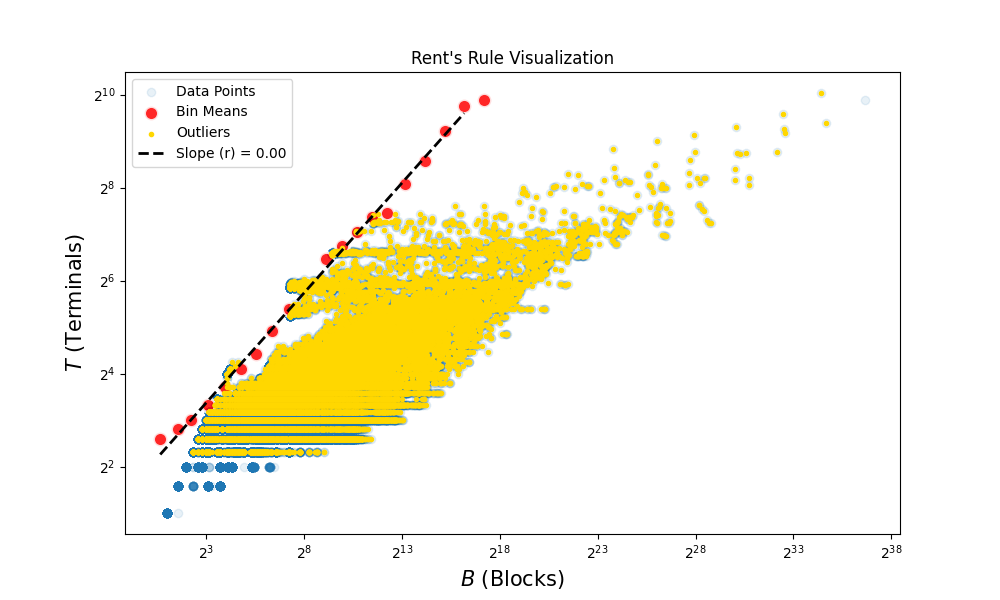
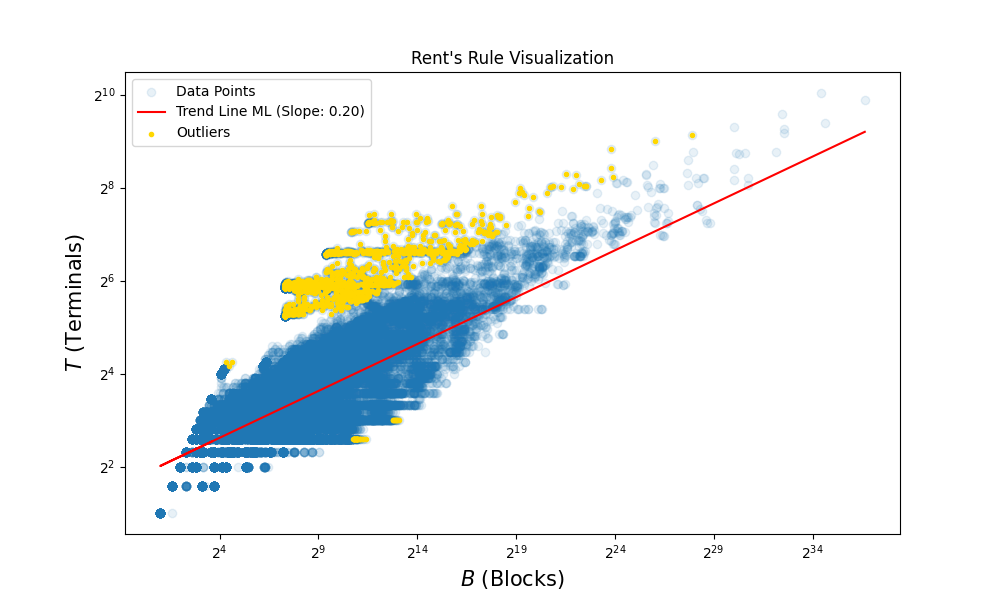
wierd slope

diff --git a/post_process/rent_norm/rent_norm2viz.py b/post_process/rent_norm/rent_norm2viz.py
@@ -15,7 +15,8 @@ import sys
 # from sklearn.linear_model import LinearRegression, RANSACRegressor
 from statsmodels.nonparametric.kernel_regression import KernelReg
 from sklearn import datasets, linear_model, kernel_ridge
-from post-process.merge2csv import merge_2_csv
+from post_process.merge2csv import merge_to_csv
+
 
 def rent_norm(t_dic, r):
     weighted_blocks = []
@@ -50,18 +51,27 @@ def calculate_bin_means(rent_data_flat, blocks, n_bins):
 
 def trend_line_ml(data):
     X = data[:, 0].reshape(-1, 1)
+    # X = data[:, 0]
     y = data[:, 1]
 
-    ransac = linear_model.RANSACRegressor(max_trials=30, min_samples=1000, residual_threshold=1.24, random_state=42)
-    huber = linear_model.HuberRegressor(max_iter=1000, alpha=0.1, epsilon=4)
 
-    model = huber
+    # huber = linear_model.HuberRegressor(max_iter=1000, alpha=0.1, epsilon=4)
+    # huber = linear_model.HuberRegressor(max_iter=1000, alpha=0.1, epsilon=1.0)
+    # model = huber
+    # model.fit(X, y)
+    # # inlier_mask = model.inlier_mask_
+    # # outlier_mask = np.logical_not(inlier_mask)
+    # outlier_mask = model.outliers_
+    #
+    # coef = model.coef_[0]
+
+    ransac = linear_model.RANSACRegressor(max_trials=30, min_samples=1000, residual_threshold=1.0, random_state=42)
+    model = ransac
     model.fit(X, y)
-    # inlier_mask = model.inlier_mask_
-    # outlier_mask = np.logical_not(inlier_mask)
-    outlier_mask = model.outliers_
+    inlier_mask = ransac.inlier_mask_
+    outlier_mask = np.logical_not(inlier_mask)
     line_y_ransac = model.predict(X)
-    coef = model.coef_[0]
+    coef = model.estimator_.coef_[0]
     return line_y_ransac, coef, outlier_mask
 
 
@@ -107,30 +117,39 @@ def visualize_rent(rent_path, output_filename='Rents_rule_real.png', output_figu
 
     # use this slope for normalizing
     norm_blocks = rent_norm(t_dic, slope)
-    prev_slope = slope
-    for i in range(10):
-        bin_means = calculate_bin_means(rent_data_flat[:,0:2], norm_blocks, n_bins)
-        log_bin_means = np.log(bin_means)
-        y_predict, slope, _ = trend_line_ml(np.stack((norm_blocks, pins), axis=1))
-        if abs(prev_slope - slope) <= 0.0001:
-            print(f"{i}: slope {slope} : prev_slope {prev_slope}")
-            break
-
-        prev_slope = slope
-        norm_blocks = rent_norm(t_dic, slope)
+    y_predict, slope, outlier_mask = trend_line_ml(np.stack((np.log(norm_blocks.astype(float)), np.log(pins.astype(float))), axis=1))
+    # prev_slope = slope
+    # for i in range(10):
+    #     bin_means = calculate_bin_means(rent_data_flat[:,0:2], norm_blocks, n_bins)
+    #     # log_bin_means = np.log(bin_means)
+    #     y_predict, slope, outlier_mask = trend_line_ml(np.stack((norm_blocks, pins), axis=1))
+    #     if abs(prev_slope - slope) <= 0.0001:
+    #         print(f"{i}: slope {slope} : prev_slope {prev_slope}")
+    #         break
+    #
+    #     prev_slope = slope
+    #     norm_blocks = rent_norm(t_dic, slope)
 
 
     plt.figure(figsize=(10, 6))
+    ## data dots
     plt.scatter(norm_blocks, pins, alpha=0.1, label='Data Points')
-    plt.scatter(bin_means[:, 0], bin_means[:, 1], s=100, color='red', alpha=0.85, edgecolors='w', linewidths=2,
-                marker='o', label='Bin Means')
-    plt.plot(norm_blocks, y_predict, color='red', label=f'Trend Line ML (Slope: {slope:.2f})')
+
+    ## linear-regression line
+    plt.plot(norm_blocks, np.exp(y_predict), color='red', label=f'Trend Line ML (Slope: {slope:.2f})')
+    plt.scatter(norm_blocks[outlier_mask], pins[outlier_mask], color="gold", marker=".", label="Outliers")
     plt.xscale("log", base=2)
     plt.yscale("log", base=2)
     plt.xlabel('$B$ (Blocks)', size=15)
     plt.ylabel('$T$ (Terminals)', size=15)
-    plt.plot(np.exp(line[:, 0]), np.exp(line[:, 1]), color='black', linewidth=2, linestyle='--',
-             label=f'Slope (r) = {slope:.2f}')
+
+
+    ## bin dots
+    # plt.scatter(bin_means[:, 0], bin_means[:, 1], s=100, color='red', alpha=0.85, edgecolors='w', linewidths=2,
+    #             marker='o', label='Bin Means')
+    ## bin means line
+    # plt.plot(np.exp(line[:, 0]), np.exp(line[:, 1]), color='black', linewidth=2, linestyle='--',
+    #          label=f'Slope (r) = {slope:.2f}')
     plt.title('Rent\'s Rule Visualization')
     plt.legend()
 
